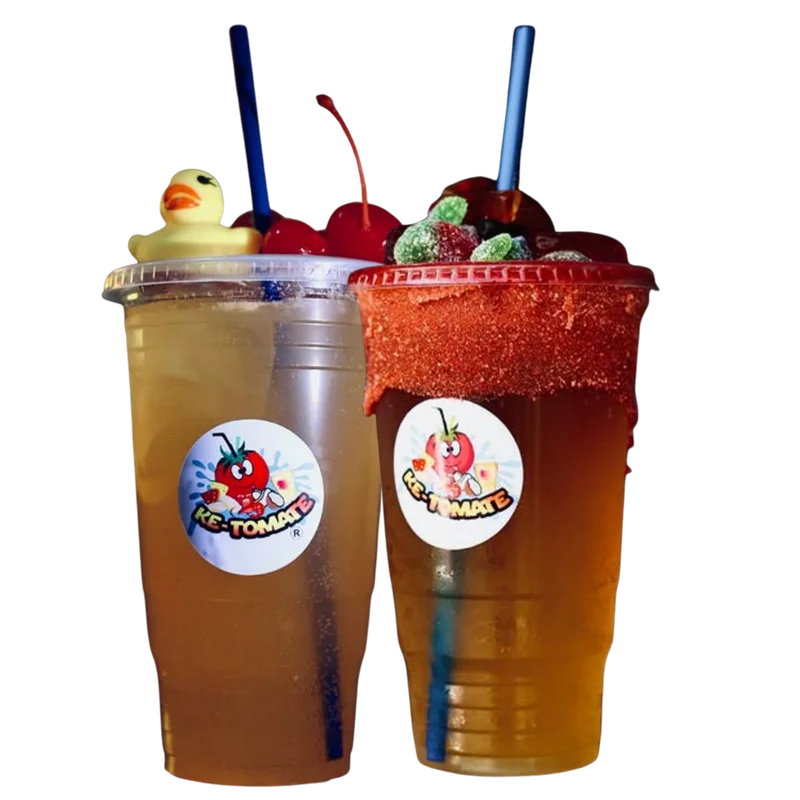
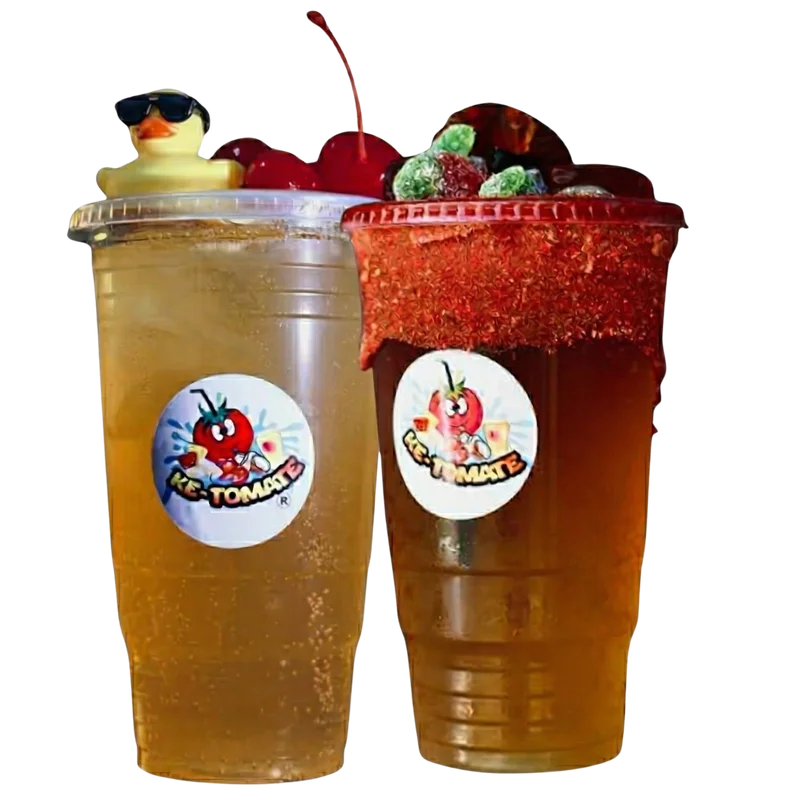
Replace michelada animation image with ketomi and revert mobile hand layout
Swapped beer.webp with new ketomi image (resized 6250→800, 70KB webp).
Reverted mobile layout to original scroll animation without static hand.

diff --git a/src/components/MicheladaAnimation.tsx b/src/components/MicheladaAnimation.tsx
@@ -58,46 +58,21 @@ export default function MicheladaAnimation() {
           />
         </motion.div>
 
-        {/* Desktop: michelada animada absolute */}
         <motion.div
           style={{
             x: micheladaXPercent,
             rotate: micheladaRotate,
             opacity: micheladaOpacity,
           }}
-          className="absolute z-10 hidden md:block"
+          className="absolute z-10"
         >
           <Image
             src="/images/animation/beer.webp"
             alt="Micheladas Ke-Tomate"
             width={400}
             height={500}
-            className="w-[400px] h-auto object-contain"
+            className="w-[220px] md:w-[400px] h-auto object-contain"
             priority
-          />
-        </motion.div>
-
-        {/* Mobile: michelada + mano vertical layout */}
-        <motion.div
-          style={{ opacity: micheladaOpacity }}
-          className="absolute z-10 md:hidden flex flex-col items-center top-[30%]"
-        >
-          <Image
-            src="/images/animation/beer.webp"
-            alt="Micheladas Ke-Tomate"
-            width={400}
-            height={500}
-            className="w-[200px] h-auto object-contain"
-            priority
-          />
-          <Image
-            src="/images/animation/hand.webp"
-            alt="Mano agarrando michelada"
-            width={800}
-            height={800}
-            className="w-[180px] h-auto object-contain -mt-4 opacity-75"
-            priority
-            unoptimized
           />
         </motion.div>
       </div>
